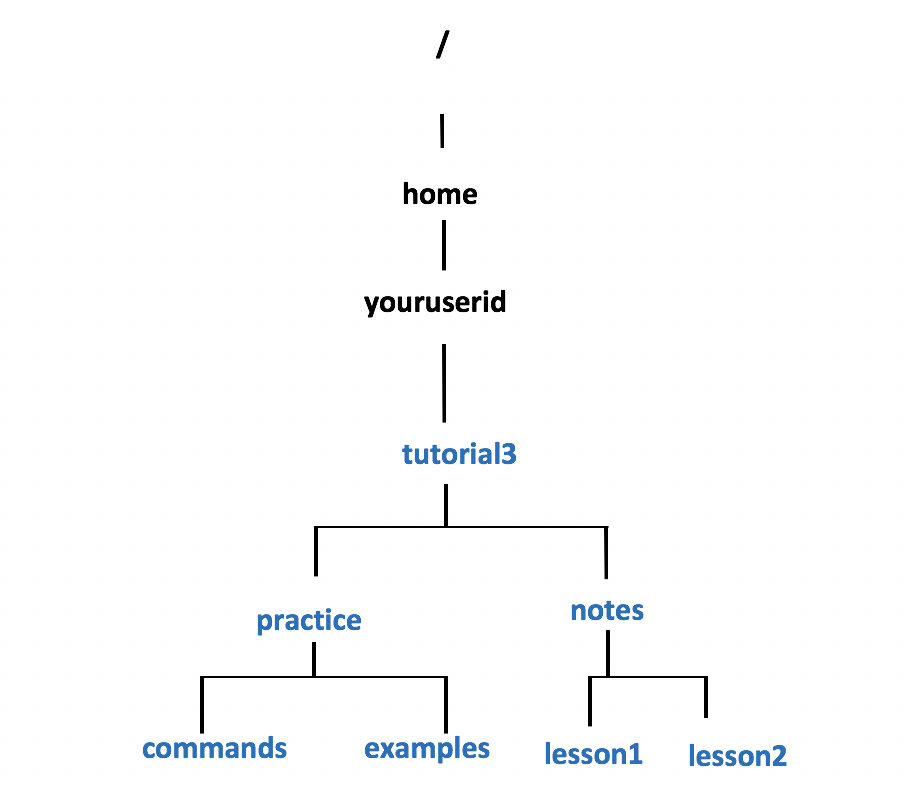
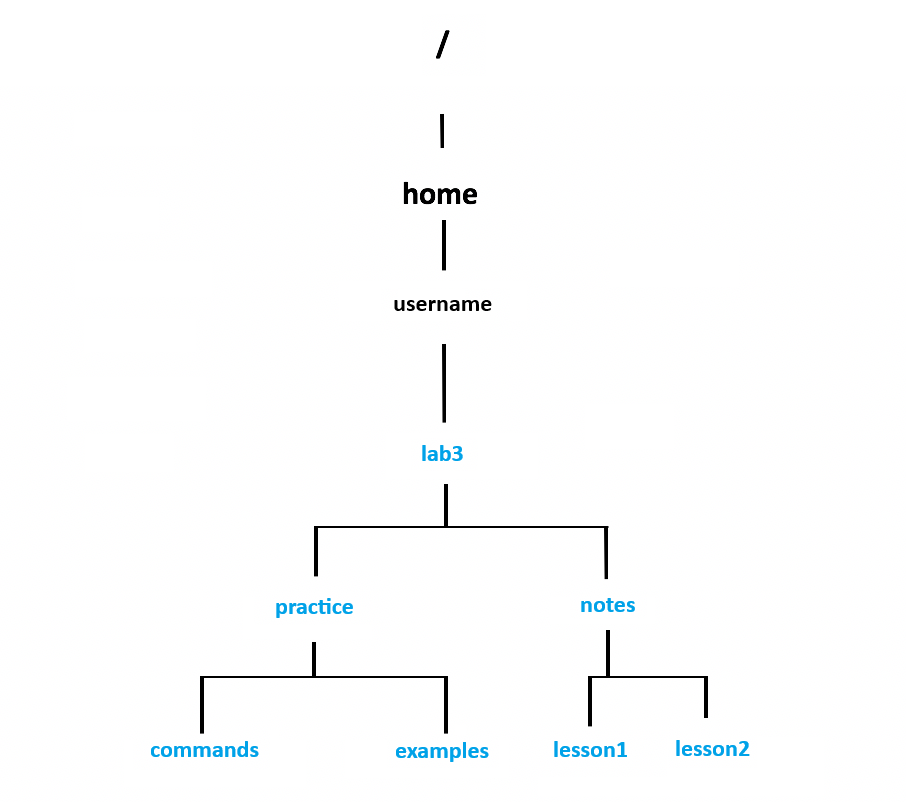
Lab 3: Changed directory tree diagrams.

diff --git a/lab3.md b/lab3.md
@@ -214,10 +214,10 @@ git pull
 
 2. Issue the following Linux command to create the directory structure displayed to the right using **absolute pathnames**:
 
-   - **NOTE:** Just continue typing and let the text continue of separate lines. Remeber to replace the text "youruserid" with your username.
+   - **NOTE:** Just continue typing and let the text continue of separate lines. Remeber to replace the text "username" with your username.
 
 ```bash
-mkdir -p /home/youruserid/tutorial3/practice/commands /home/youruserid/tutorial3/practice/examples /home/youruserid/tutorial3/notes/lesson1 /home/youruserid/tutorial3/notes/lesson2
+mkdir -p /home/username/lab3/practice/commands /home/username/lab3/practice/examples /home/username/lab3/notes/lesson1 /home/username/lab3/notes/lesson2
 ```
 
 ![Dir12](/img/Dir12.png)
@@ -225,7 +225,7 @@ mkdir -p /home/youruserid/tutorial3/practice/commands /home/youruserid/tutorial3
 3. Issue the following Linux command to confirm that you properly created the directory structure:
 
 ```bash
-tree /home/youruserid/tutorial3
+tree /home/username/lab3
 ```
 
 - You should notice that using absolute pathnames with this Linux command **requires a lot of typing**.
@@ -234,7 +234,7 @@ tree /home/youruserid/tutorial3
 4. To remove this directory structure, issue the following Linux command (enter "**y**" at each prompt to remove ALL contents):
 
 ```bash
-rm -ri /home/youruserid/tutorial3
+rm -ri /home/username/lab3
 ```
 
 5. Issue a command tree command as you did in **step #4** to confirm that the directory structure has been removed.
@@ -243,21 +243,21 @@ rm -ri /home/youruserid/tutorial3
    - **NOTE:** You usually generate the ~ character by Holding down **SHIFT** and press the button to the left of the number **1** above the text on your keyboard.
 
 ```bash
-mkdir -p ~/tutorial3/practice/commands ~/tutorial3/practice/examples ~/tutorial3/notes/lesson1 ~/tutorial3/notes/lesson2
+mkdir -p ~/lab3/practice/commands ~/lab3/practice/examples ~/lab3/notes/lesson1 ~/lab3/notes/lesson2
 ```
 
 - Did this command require less typing than the previous command using absolute pathnames?
 
 7. Issue the **tree** command to confirm the directory structure was properly created.
 
-   - Let's remove the **tutorial3** directory and its contents and issue the same command using **relative pathnames**.
+   - Let's remove the **lab3** directory and its contents and issue the same command using **relative pathnames**.
 
-8. Issue the same command as you did in **step #5** to remove the **tutorial3** directory and its contents safely.
-0. Issue a Linux command to confirm you removed the **tutorial3** directory and its contents.
+8. Issue the same command as you did in **step #5** to remove the **lab3** directory and its contents safely.
+0. Issue a Linux command to confirm you removed the **lab3** directory and its contents.
 10. Issue the following Linux command to create the same directory structure using relative pathnames:
 
 ```bash
-mkdir -p tutorial3/practice/commands tutorial3/practice/examples tutorial3/notes/lesson1 tutorial3/notes/lesson2
+mkdir -p lab3/practice/commands lab3/practice/examples lab3/notes/lesson1 lab3/notes/lesson2
 ```
 
 11. Issue a command to verify that the proper directory structure was created.
@@ -285,7 +285,7 @@ When performing the next series of steps, refer to the **tree diagram** below. L
 4. Issue a Linux command to change to the **examples** directory in your recently-created directory structure.
 
 ```bash
-cd tutorial3/practice/examples
+cd lab3/practice/examples
 ```
 
 5. Issue a Linux command to confirm you are located in the examples directory.
@@ -307,7 +307,7 @@ ls /bin
 8. Let's copy the file called ls which is contained in the **/bin** directory to your **home** directory by using the **cp** command. First, issue the following Linux command to copy the ls command from the /bin directory to your home directory using absolute pathnames:
 
 ```bash
-cp /bin/ls /home/youruserid
+cp /bin/ls /home/username
 ```
 
 9. Now let's issue the previous command using just relative pathname (remember, our current directory location is **examples**):
